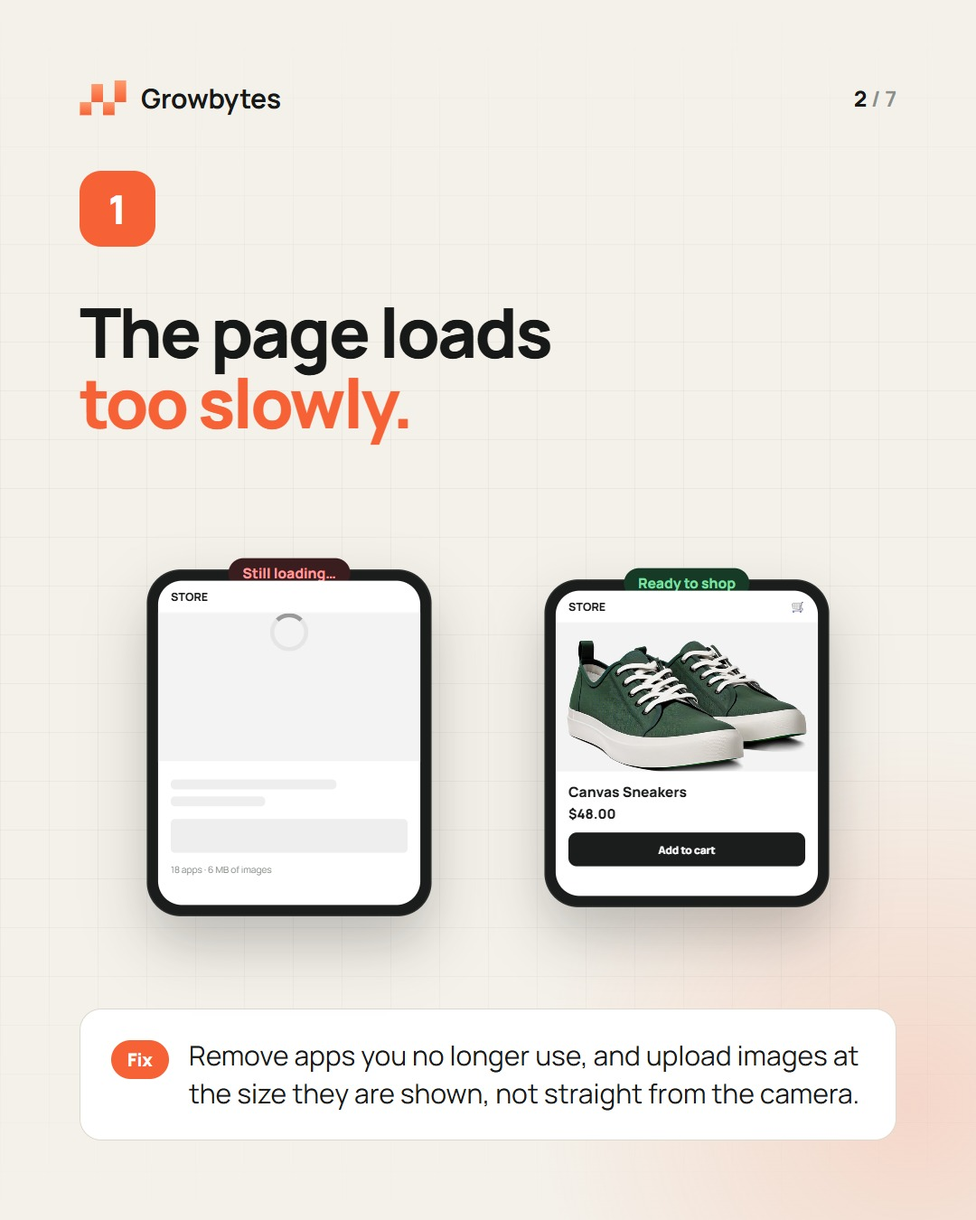
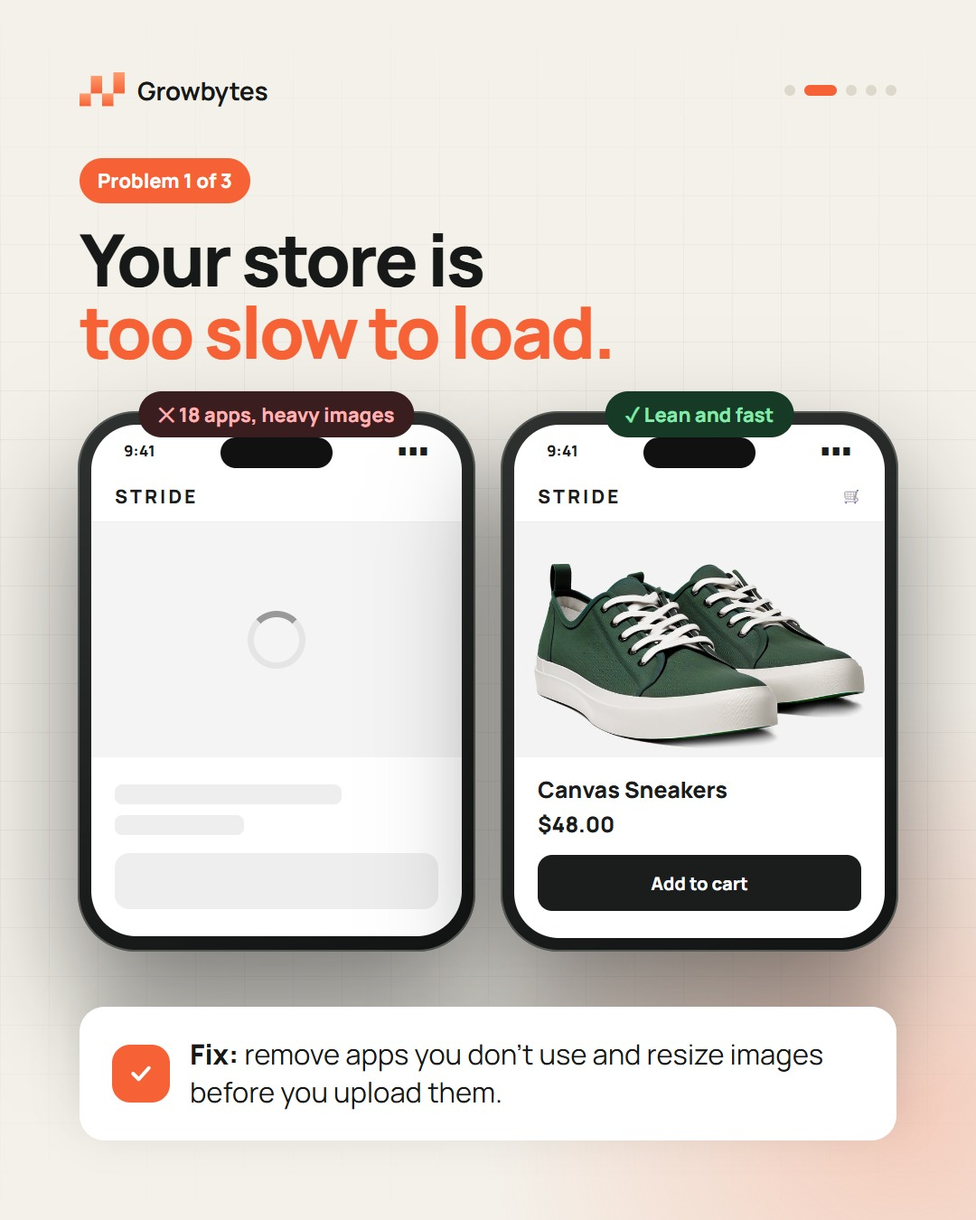
Social: 5-slide Shopify carousel with real product photos and mixed backgrounds

diff --git a/brand/social/src/shopify-no-sales.html b/brand/social/src/shopify-no-sales.html
@@ -4,199 +4,189 @@
 <meta charset="utf-8">
 <link href="https://fonts.googleapis.com/css2?family=Manrope:wght@400;500;600;700;800&display=swap" rel="stylesheet">
 <style>
-  :root { --night:#0d0f0e; --ink:#f4f1ea; --muted:#a3a8a4; --dim:#6c726e; --line:#262a28; --orange:#f66135; --peach:#ffb38f; --green:#2fb463; --red:#e5484d; }
+  :root { --orange:#f66135; --peach:#ffb38f; --red:#e5484d; --green:#17803d; }
   * { box-sizing:border-box; margin:0; padding:0; }
   body { font-family:Manrope, sans-serif; background:#000; }
   ::-webkit-scrollbar { display:none; }
-  .phone { height:auto !important; }
-  .scr { height:auto !important; padding-bottom:26px; }
-  .slide { width:1080px; height:1350px; background:var(--night); color:var(--ink); overflow:hidden; position:relative; margin-bottom:20px; }
-  .glow { position:absolute; width:900px; height:900px; right:-380px; bottom:-320px; border-radius:50%; background:radial-gradient(circle, rgba(246,97,53,.22), rgba(246,97,53,0) 65%); }
-  .grid { position:absolute; inset:0; background-image:linear-gradient(rgba(255,255,255,.03) 1px, transparent 1px), linear-gradient(90deg, rgba(255,255,255,.03) 1px, transparent 1px); background-size:54px 54px; mask-image:linear-gradient(180deg, transparent, #000 30%, #000 70%, transparent); }
-  .wrap { position:absolute; inset:0; padding:88px; display:flex; flex-direction:column; }
-  .top { display:flex; justify-content:space-between; align-items:center; }
-  .brand { display:flex; align-items:center; gap:16px; font-weight:700; font-size:30px; letter-spacing:-.3px; }
-  .count { font-size:24px; font-weight:700; color:var(--dim); }
-  .count b { color:var(--ink); }
-  h1 { font-size:112px; line-height:.98; font-weight:800; letter-spacing:-4.5px; margin-top:70px; }
-  h1 span, h2 span { color:var(--orange); }
-  h2 { font-size:76px; line-height:1.02; font-weight:800; letter-spacing:-2.8px; margin-top:56px; }
-  .num { margin-top:60px; width:84px; height:84px; border-radius:24px; background:var(--orange); color:#fff; display:grid; place-items:center; font-size:44px; font-weight:800; }
-  .lead { margin-top:26px; font-size:34px; line-height:1.4; color:var(--muted); max-width:860px; }
-  .fix { margin-top:auto; display:flex; gap:22px; align-items:flex-start; background:rgba(255,255,255,.04); border:1px solid var(--line); border-radius:24px; padding:30px 34px; }
-  .fix .k { flex-shrink:0; font-size:20px; font-weight:800; color:var(--night); background:var(--peach); border-radius:99px; padding:8px 18px; margin-top:4px; }
-  .fix p { font-size:30px; line-height:1.4; }
-  .swipe { margin-top:auto; display:flex; align-items:center; gap:16px; font-size:28px; font-weight:700; color:var(--peach); }
-  .visual { margin-top:44px; flex:1; display:flex; align-items:center; justify-content:center; min-height:0; }
 
-  /* Phone mockup */
-  .phone { width:400px; height:560px; border-radius:46px; background:#1b1d1c; padding:14px; box-shadow:0 40px 90px rgba(0,0,0,.6), 0 0 0 2px #2c302e; position:relative; }
-  .scr { width:100%; height:100%; border-radius:34px; background:#fff; overflow:hidden; color:#1b1d1c; position:relative; font-size:15px; }
-  .bar { height:46px; display:flex; align-items:center; justify-content:space-between; padding:0 18px; font-weight:800; font-size:16px; border-bottom:1px solid #eee; }
-  .pimg { height:210px; background:#f5f5f5; overflow:hidden; display:grid; place-items:center; }
-  .pimg { display:block !important; }
-  .pimg img { display:block; width:100%; height:100%; object-fit:cover; object-position:center 55%; transform:scale(1.25); }
-  .slide.light .fix .k { background:var(--orange); color:#fff; }
-  /* Slide themes: dark (default), light and brand orange */
-  .slide.light { --night:#f4f1ea; --ink:#171918; --muted:#4f5652; --dim:#8a8f8b; --line:#ddd8cc; }
-  .slide.light .grid { background-image:linear-gradient(rgba(0,0,0,.04) 1px, transparent 1px), linear-gradient(90deg, rgba(0,0,0,.04) 1px, transparent 1px); }
-  .slide.light .glow { background:radial-gradient(circle, rgba(246,97,53,.18), rgba(246,97,53,0) 65%); }
-  .slide.light .fix { background:#fff; }
-  .slide.light .phone { box-shadow:0 40px 80px rgba(23,25,24,.25), 0 0 0 2px #2c302e; }
-  .slide.orange { --night:#f66135; --ink:#fff; --muted:rgba(255,255,255,.85); --dim:rgba(255,255,255,.7); --line:rgba(255,255,255,.28); }
-  .slide.orange h1 span, .slide.orange h2 span { color:#171918; }
-  .slide.orange .num { background:#171918; }
-  .slide.orange .glow { background:radial-gradient(circle, rgba(255,214,190,.45), rgba(255,214,190,0) 65%); }
-  .slide.orange .fix { background:rgba(23,25,24,.14); }
-  .slide.orange .fix .k { background:#171918; color:#fff; }
-  .slide.orange .count b { color:#fff; }
-  .slide.orange .brand svg rect { fill:#fff; }
-  .pad { padding:16px 18px; }
-  .t { font-weight:800; font-size:20px; }
-  .pr { font-weight:800; font-size:19px; margin-top:4px; }
-  .muted { color:#8a8f8b; font-size:13px; }
-  .btn { margin-top:14px; height:48px; border-radius:12px; background:#1b1d1c; color:#fff; display:grid; place-items:center; font-weight:800; }
-  .side { display:flex; gap:40px; align-items:center; }
-  .tag { position:absolute; top:-18px; left:50%; transform:translateX(-50%); font-size:20px; font-weight:800; padding:8px 20px; border-radius:99px; white-space:nowrap; }
-  .tag.bad { background:#3a1d1e; color:#ff9a9d; }
-  .tag.good { background:#173a26; color:#7fe0a5; }
-  .skel { background:#eee; border-radius:6px; height:14px; margin-top:10px; }
-  .spin { width:54px; height:54px; border-radius:50%; border:6px solid #e5e5e5; border-top-color:#999; }
-  .row { display:flex; justify-content:space-between; padding:9px 0; border-bottom:1px solid #f0f0f0; font-size:16px; }
+  /* Slide themes */
+  .slide { --bg:#0d0f0e; --ink:#f4f1ea; --muted:#a3a8a4; --dim:#6c726e; --line:#2a2e2c; --hl:var(--orange); --card:rgba(23,25,24,.94);
+    width:1080px; height:1350px; background:var(--bg); color:var(--ink); overflow:hidden; position:relative; margin-bottom:20px; }
+  .slide.light { --bg:#f4f1ea; --ink:#171918; --muted:#4f5652; --dim:#8a8f8b; --line:#ddd8cc; --card:#fff; }
+  .slide.orange { --bg:#f66135; --ink:#fff; --muted:rgba(255,255,255,.88); --dim:rgba(255,255,255,.75); --line:rgba(255,255,255,.3); --hl:#171918; --card:rgba(33,18,11,.92); }
+  .glow { position:absolute; width:1000px; height:1000px; right:-420px; bottom:-380px; border-radius:50%; background:radial-gradient(circle, rgba(246,97,53,.25), rgba(246,97,53,0) 65%); }
+  .orange .glow { background:radial-gradient(circle, rgba(255,220,200,.5), rgba(255,220,200,0) 65%); }
+  .grid { position:absolute; inset:0; background-image:linear-gradient(rgba(255,255,255,.035) 1px, transparent 1px), linear-gradient(90deg, rgba(255,255,255,.035) 1px, transparent 1px); background-size:54px 54px; mask-image:linear-gradient(180deg, transparent, #000 30%, #000 70%, transparent); }
+  .light .grid { background-image:linear-gradient(rgba(0,0,0,.045) 1px, transparent 1px), linear-gradient(90deg, rgba(0,0,0,.045) 1px, transparent 1px); }
+  .wrap { position:absolute; inset:0; padding:80px 88px 88px; display:flex; flex-direction:column; }
+
+  .top { display:flex; justify-content:space-between; align-items:center; position:relative; z-index:3; }
+  .brand { display:flex; align-items:center; gap:14px; font-weight:700; font-size:28px; letter-spacing:-.3px; }
+  .orange .brand rect { fill:#fff; }
+  .dots { display:flex; gap:10px; }
+  .dots i { width:12px; height:12px; border-radius:99px; background:var(--line); }
+  .dots i.on { width:36px; background:var(--hl); }
+
+  h1 { font-size:118px; line-height:.96; font-weight:800; letter-spacing:-5px; margin-top:64px; position:relative; z-index:3; }
+  h2 { font-size:80px; line-height:1.0; font-weight:800; letter-spacing:-3px; margin-top:22px; position:relative; z-index:3; }
+  h1 span, h2 span { color:var(--hl); }
+  .pill { margin-top:56px; align-self:flex-start; font-size:22px; font-weight:800; padding:10px 20px; border-radius:99px; background:var(--hl); color:#fff; position:relative; z-index:3; }
+  .lead { margin-top:26px; font-size:34px; line-height:1.4; color:var(--muted); max-width:860px; position:relative; z-index:3; }
+
+  .visual { flex:1; display:flex; justify-content:center; align-items:flex-start; margin-top:48px; margin-bottom:-190px; position:relative; z-index:1; }
+  .fix { position:relative; z-index:3; display:flex; gap:22px; align-items:center; background:var(--card); border-radius:28px; padding:32px 36px; box-shadow:0 -20px 60px rgba(0,0,0,.28); }
+  .light .fix { box-shadow:0 -14px 50px rgba(23,25,24,.14); }
+  .fix .k { flex-shrink:0; width:64px; height:64px; border-radius:20px; background:var(--orange); display:grid; place-items:center; }
+  .fix p { font-size:31px; line-height:1.35; color:var(--ink); }
+  .orange .fix p { color:#fff; }
+  .fix b { font-weight:800; }
+
+  /* Phone */
+  .phone { width:500px; border-radius:64px; padding:15px; background:linear-gradient(160deg,#41464380,#121413), #1b1d1c; box-shadow:0 60px 120px rgba(0,0,0,.5), inset 0 0 0 2px #555a57; flex-shrink:0; }
+  .scr { border-radius:50px; background:#fff; overflow:hidden; color:#1b1d1c; position:relative; font-size:18px; padding-bottom:30px; }
+  .status { height:50px; display:flex; justify-content:space-between; align-items:center; padding:6px 36px 0; font-weight:800; font-size:17px; }
+  .status:after { content:"▮▮▮"; letter-spacing:1px; font-size:11px; }
+  .island { position:absolute; top:14px; left:50%; transform:translateX(-50%); width:124px; height:34px; border-radius:20px; background:#111; }
+  .bar { height:58px; display:flex; align-items:center; justify-content:space-between; padding:0 26px; font-weight:800; font-size:21px; letter-spacing:3px; border-bottom:1px solid #eee; }
+  .bar small { font-size:16px; letter-spacing:0; font-weight:700; }
+  .pimg { height:300px; background:#f4f4f4; overflow:hidden; }
+  .pimg img { display:block; width:100%; height:100%; object-fit:cover; object-position:center 55%; transform:scale(1.22); }
+  .thumbs { display:flex; gap:10px; padding:14px 26px 0; }
+  .thumbs img { width:64px; height:64px; object-fit:cover; border-radius:12px; border:2px solid #eee; }
+  .thumbs img:first-child { border-color:#1b1d1c; }
+  .pad { padding:18px 26px 0; }
+  .t { font-weight:800; font-size:25px; }
+  .pr { font-weight:800; font-size:24px; margin-top:4px; }
+  .muted { color:#8a8f8b; font-size:16px; }
+  .btn { margin-top:18px; height:62px; border-radius:16px; background:#1b1d1c; color:#fff; display:grid; place-items:center; font-weight:800; font-size:20px; }
+  .row { display:flex; justify-content:space-between; padding:12px 0; border-bottom:1px solid #f0f0f0; font-size:18px; }
   .row b { font-weight:800; }
-  .shock { color:var(--red); font-weight:800; }
-  .ok { color:#17803d; font-weight:800; }
-  .badge { display:inline-flex; gap:6px; align-items:center; background:#f3f1ec; border-radius:8px; padding:7px 10px; font-size:13px; font-weight:700; margin:6px 6px 0 0; }
-  .stars { color:#f5a623; font-size:16px; letter-spacing:1px; }
-  .cta { display:inline-flex; align-items:center; gap:14px; font-size:32px; font-weight:800; color:#fff; background:var(--orange); padding:26px 46px; border-radius:999px; box-shadow:0 18px 40px rgba(246,97,53,.35); }
-  .check { list-style:none; margin-top:56px; display:grid; gap:20px; }
-  .check li { display:flex; gap:20px; align-items:center; font-size:34px; font-weight:700; }
-  .check li i { width:46px; height:46px; border-radius:14px; background:var(--orange); display:grid; place-items:center; flex-shrink:0; font-style:normal; }
+  .badge { display:inline-flex; gap:6px; align-items:center; background:#f3f1ec; border-radius:10px; padding:8px 12px; font-size:15px; font-weight:700; margin:8px 6px 0 0; }
+  .stars { color:#f5a623; font-size:18px; letter-spacing:1px; }
+  .skel { background:#eee; border-radius:8px; height:16px; margin-top:12px; }
+  .spin { width:64px; height:64px; border-radius:50%; border:7px solid #e5e5e5; border-top-color:#999; }
+  .tag { position:absolute; top:-22px; left:50%; transform:translateX(-50%); font-size:22px; font-weight:800; padding:10px 22px; border-radius:99px; white-space:nowrap; z-index:2; }
+  .tag.bad { background:#3a1d1e; color:#ffb1b3; }
+  .tag.good { background:#173a26; color:#86e8ac; }
+  .pair { display:flex; gap:28px; }
+  .pair .phone { width:440px; position:relative; }
+  .pair .pimg { height:260px; }
+  .ship { margin-top:14px; display:flex; align-items:center; gap:10px; background:#eefaf2; color:var(--green); border-radius:12px; padding:12px 14px; font-weight:800; font-size:16px; }
+
+  .cta { display:inline-flex; align-items:center; gap:14px; font-size:34px; font-weight:800; color:#fff; background:var(--orange); padding:28px 50px; border-radius:999px; box-shadow:0 20px 44px rgba(246,97,53,.4); }
+  .check { list-style:none; margin-top:60px; display:grid; gap:26px; }
+  .check li { display:flex; gap:22px; align-items:center; font-size:38px; font-weight:700; }
+  .check li i { width:56px; height:56px; border-radius:16px; background:var(--orange); display:grid; place-items:center; flex-shrink:0; }
+  .s3 .visual { margin-bottom:-120px; }
+  .check.card { background:#fff; border-radius:32px; padding:44px 44px; box-shadow:0 30px 70px rgba(23,25,24,.1); margin-top:64px; gap:30px; }
+  .check.card li { font-size:36px; }
+  .check.card li span { display:block; font-size:24px; font-weight:500; color:#6c726e; margin-top:4px; }
 </style>
 </head>
 <body>
 
-<!-- Logo reused on every slide -->
-<template id="logo"><svg width="52" height="40" viewBox="0 0 16 12.5"><defs><linearGradient id="g" x1="0" x2="0" y1="0" y2="1"><stop offset="0" stop-color="#FF9C6E"/><stop offset="1" stop-color="#F66135"/></linearGradient></defs><rect x="0" y="7.5" width="4" height="4.5" fill="url(#g)"/><rect x="4" y="1.25" width="4" height="6.25" fill="url(#g)"/><rect x="8" y="7.5" width="4" height="4.5" fill="url(#g)"/><rect x="12" y="0" width="4" height="7.5" fill="url(#g)"/></svg>Growbytes</template>
+<template id="logo"><svg width="50" height="39" viewBox="0 0 16 12.5"><defs><linearGradient id="g" x1="0" x2="0" y1="0" y2="1"><stop offset="0" stop-color="#FF9C6E"/><stop offset="1" stop-color="#F66135"/></linearGradient></defs><rect x="0" y="7.5" width="4" height="4.5" fill="url(#g)"/><rect x="4" y="1.25" width="4" height="6.25" fill="url(#g)"/><rect x="8" y="7.5" width="4" height="4.5" fill="url(#g)"/><rect x="12" y="0" width="4" height="7.5" fill="url(#g)"/></svg>Growbytes</template>
+<template id="tick"><svg width="30" height="30" viewBox="0 0 24 24" fill="none" stroke="#fff" stroke-width="3.2" stroke-linecap="round" stroke-linejoin="round"><path d="M5 12l5 5 9-10"/></svg></template>
 
-<!-- 1. Cover -->
-<section class="slide"><div class="glow"></div><div class="grid"></div><div class="wrap">
-  <div class="top"><div class="brand"></div><div class="count"><b>1</b> / 7</div></div>
-  <h1>People visit<br>your store.<br><span>Nobody buys.</span></h1>
-  <p class="lead">5 quiet problems that stop Shopify visitors from buying, and how to fix each one.</p>
-  <div class="visual" style="margin-top:30px">
-    <div class="phone" style="transform:rotate(-4deg) scale(.86)"><div class="scr">
-      <div class="bar">STORE <span>🛒 0</span></div>
-      <div class="pimg"><img src="img/sneakers.jpg" alt=""></div>
-      <div class="pad"><div class="t">Canvas Sneakers</div><div class="pr">$48.00</div><div class="btn" style="background:#ccc">Add to cart</div>
-      <p class="muted" style="margin-top:12px;text-align:center">1,204 visits today · 0 orders</p></div>
+<!-- 1. Hook -->
+<section class="slide" data-n="1"><div class="glow"></div><div class="grid"></div><div class="wrap">
+  <div class="top"><div class="brand"></div><div class="dots"></div></div>
+  <h1>Visitors come.<br><span>Sales don&rsquo;t.</span></h1>
+  <p class="lead">3 problems that stop people buying from your Shopify store, and how to fix each one.</p>
+  <div class="visual" style="margin-bottom:-200px">
+    <div class="phone" style="transform:rotate(-5deg)"><div class="scr"><div class="island"></div><div class="status">9:41</div>
+      <div class="bar">STRIDE <small>🛒 0</small></div>
+      <div class="pad" style="padding-top:16px;padding-bottom:16px;background:#fafafa"><div style="display:flex;gap:10px">
+          <div style="flex:1;background:#f4f4f4;border-radius:14px;padding:14px 16px"><div class="muted">Visits today</div><div style="font-size:30px;font-weight:800">1,204</div></div>
+          <div style="flex:1;background:#fff1ee;border-radius:14px;padding:14px 16px"><div class="muted">Orders</div><div style="font-size:30px;font-weight:800;color:var(--red)">0</div></div>
+        </div></div>
+      <div class="pimg" style="height:250px"><img src="img/sneakers.jpg" alt=""></div>
+      <div class="pad"><div class="t">Canvas Sneakers</div><div class="pr">$48.00</div></div>
     </div></div>
   </div>
-  <div class="swipe">Swipe to fix it <svg width="30" height="30" viewBox="0 0 24 24" fill="none" stroke="currentColor" stroke-width="2.6" stroke-linecap="round" stroke-linejoin="round"><path d="M5 12h14M13 6l6 6-6 6"/></svg></div>
+  <div class="fix" style="justify-content:space-between"><p><b>Swipe</b> to see what&rsquo;s going wrong</p>
+    <span class="k"><svg width="32" height="32" viewBox="0 0 24 24" fill="none" stroke="#fff" stroke-width="2.8" stroke-linecap="round" stroke-linejoin="round"><path d="M5 12h14M13 6l6 6-6 6"/></svg></span></div>
 </div></section>
 
-<!-- 2. Slow -->
-<section class="slide light"><div class="glow"></div><div class="grid"></div><div class="wrap">
-  <div class="top"><div class="brand"></div><div class="count"><b>2</b> / 7</div></div>
-  <div class="num">1</div>
-  <h2>The page loads<br><span>too slowly.</span></h2>
-  <div class="visual"><div class="side">
-    <div class="phone" style="transform:scale(.78)"><span class="tag bad">Still loading…</span><div class="scr">
-      <div class="bar">STORE</div><div class="pimg" style="background:#f3f3f3"><div class="spin"></div></div>
-      <div class="pad"><div class="skel" style="width:70%"></div><div class="skel" style="width:40%"></div><div class="skel" style="height:48px;margin-top:18px"></div>
-      <p class="muted" style="margin-top:14px">18 apps · 6 MB of images</p></div></div></div>
-    <div class="phone" style="transform:scale(.78)"><span class="tag good">Ready to shop</span><div class="scr">
-      <div class="bar">STORE <span>🛒</span></div><div class="pimg"><img src="img/sneakers.jpg" alt=""></div>
+<!-- 2. Speed -->
+<section class="slide light" data-n="2"><div class="glow"></div><div class="grid"></div><div class="wrap">
+  <div class="top"><div class="brand"></div><div class="dots"></div></div>
+  <span class="pill">Problem 1 of 3</span>
+  <h2>Your store is<br><span>too slow to load.</span></h2>
+  <div class="visual"><div class="pair">
+    <div class="phone"><span class="tag bad">✕ 18 apps, heavy images</span><div class="scr"><div class="island"></div><div class="status">9:41</div>
+      <div class="bar">STRIDE</div><div class="pimg" style="display:grid;place-items:center"><div class="spin"></div></div>
+      <div class="pad"><div class="skel" style="width:70%;height:22px"></div><div class="skel" style="width:40%;height:22px"></div><div class="skel" style="height:62px;margin-top:20px;border-radius:16px"></div></div></div></div>
+    <div class="phone"><span class="tag good">✓ Lean and fast</span><div class="scr"><div class="island"></div><div class="status">9:41</div>
+      <div class="bar">STRIDE <small>🛒</small></div><div class="pimg"><img src="img/sneakers.jpg" alt=""></div>
       <div class="pad"><div class="t">Canvas Sneakers</div><div class="pr">$48.00</div><div class="btn">Add to cart</div></div></div></div>
   </div></div>
-  <div class="fix"><span class="k">Fix</span><p>Remove apps you no longer use, and upload images at the size they are shown, not straight from the camera.</p></div>
+  <div class="fix"><span class="k"></span><p><b>Fix:</b> remove apps you don&rsquo;t use and resize images before you upload them.</p></div>
 </div></section>
 
-<!-- 3. Product page -->
-<section class="slide orange"><div class="glow"></div><div class="grid"></div><div class="wrap">
-  <div class="top"><div class="brand"></div><div class="count"><b>3</b> / 7</div></div>
-  <div class="num">2</div>
-  <h2>The product page<br><span>leaves questions open.</span></h2>
-  <div class="visual"><div class="phone" style="transform:scale(.9)"><div class="scr">
-    <div class="bar">STORE <span>🛒</span></div>
-    <div class="pimg" style="height:170px"><img src="img/sneakers.jpg" alt=""></div>
-    <div class="pad"><div class="t">Canvas Sneakers</div><div class="pr">$48.00</div>
-      <div class="row"><span>Size</span><b>EU 36–46</b></div>
-      <div class="row"><span>Material</span><b>Organic canvas</b></div>
-      <div class="row"><span>Delivery</span><b class="ok">3–5 days</b></div>
-      <div class="btn">Add to cart</div></div></div></div></div>
-  <div class="fix"><span class="k">Fix</span><p>Show clear photos, size, material and delivery time right next to the price. Answer the questions people would ask in a shop.</p></div>
+<!-- 3. Product page + trust -->
+<section class="slide orange s3" data-n="3"><div class="glow"></div><div class="grid"></div><div class="wrap">
+  <div class="top"><div class="brand"></div><div class="dots"></div></div>
+  <span class="pill">Problem 2 of 3</span>
+  <h2 style="font-size:74px">Shoppers ask questions.<br><span>Your page is silent.</span></h2>
+  <div class="visual"><div class="phone"><div class="scr"><div class="island"></div><div class="status">9:41</div>
+    <div class="bar">STRIDE <small>🛒</small></div>
+    <div class="pimg" style="height:190px"><img src="img/sneakers.jpg" alt=""></div>
+    <div class="thumbs"><img src="img/sneakers.jpg"><img src="img/white-sneakers.jpg"><img src="img/sneakers.jpg" style="object-position:20% 60%"></div>
+    <div class="pad"><div style="display:flex;justify-content:space-between;align-items:baseline"><div class="t">Canvas Sneakers</div><div class="pr">$48.00</div></div>
+      <div style="display:flex;gap:8px;align-items:center;margin-top:6px"><span class="stars">★★★★★</span><span class="muted">Read reviews</span></div>
+      <div class="row"><span>Sizes</span><b>EU 36–46</b></div>
+      <div class="row"><span>Delivery</span><b style="color:var(--green)">3–5 days</b></div>
+      <div><span class="badge">↩ Free returns</span><span class="badge">🔒 Secure checkout</span></div>
+    </div></div></div></div>
+  <div class="fix"><span class="k"></span><p><b>Fix:</b> put sizes, delivery time, reviews and your returns policy right next to the price.</p></div>
 </div></section>
 
-<!-- 4. Surprise shipping -->
-<section class="slide"><div class="glow"></div><div class="grid"></div><div class="wrap">
-  <div class="top"><div class="brand"></div><div class="count"><b>4</b> / 7</div></div>
-  <div class="num">3</div>
-  <h2>Shipping costs appear<br><span>at the last step.</span></h2>
-  <div class="visual"><div class="phone" style="transform:scale(.9)"><div class="scr">
-    <div class="bar">Checkout</div>
+<!-- 4. Checkout -->
+<section class="slide" data-n="4"><div class="glow"></div><div class="grid"></div><div class="wrap">
+  <div class="top"><div class="brand"></div><div class="dots"></div></div>
+  <span class="pill">Problem 3 of 3</span>
+  <h2>Checkout is full of<br><span>surprises and steps.</span></h2>
+  <div class="visual"><div class="phone" style="position:relative"><span class="tag good">✓ What good looks like</span><div class="scr"><div class="island"></div><div class="status">9:41</div>
+    <div class="bar">Checkout <small style="color:#8a8f8b">Step 1 of 1</small></div>
     <div class="pad">
-      <div class="row"><span>Canvas Sneakers</span><b>$48.00</b></div>
-      <div class="row"><span>Shipping</span><b class="shock">+ $14.90</b></div>
-      <div class="row"><span>Taxes</span><b class="shock">+ $5.20</b></div>
-      <div class="row" style="border:0;font-size:19px"><span><b>Total</b></span><b>$68.10</b></div>
-      <div style="margin-top:18px;background:#fff4f4;border:1px solid #ffd4d4;border-radius:12px;padding:14px;font-size:15px;color:#b42318;font-weight:700">"Wait, why is it $20 more?" 🤔</div>
-      <div class="btn" style="background:#ccc">Pay now</div></div></div></div></div>
-  <div class="fix"><span class="k">Fix</span><p>Show shipping on the product page and in the cart, or offer a free shipping threshold. No surprises at checkout.</p></div>
+      <div style="display:flex;gap:14px;align-items:center;padding-bottom:12px;border-bottom:1px solid #f0f0f0">
+        <img src="img/sneakers.jpg" style="width:76px;height:76px;object-fit:cover;border-radius:14px;background:#f4f4f4">
+        <div style="flex:1"><div style="font-weight:800">Canvas Sneakers</div><div class="muted">EU 42</div></div><b>$48.00</b></div>
+      <div class="row"><span>Shipping</span><b style="color:var(--green)">Free</b></div>
+      <div class="row" style="border:0;font-size:22px"><b>Total</b><b>$48.00</b></div>
+      <div class="ship">✓ Same price you saw on the product page</div>
+      <div class="btn" style="background:#000;margin-top:18px">Express checkout</div>
+      <div class="btn" style="background:#5a31f4;margin-top:10px">Shop Pay</div>
+      <p class="muted" style="text-align:center;margin-top:14px">or pay as a guest, no account needed</p>
+    </div></div></div></div>
+  <div class="fix"><span class="k"></span><p><b>Fix:</b> show shipping costs early, turn on express pay and allow guest checkout.</p></div>
 </div></section>
 
-<!-- 5. Trust -->
-<section class="slide light"><div class="glow"></div><div class="grid"></div><div class="wrap">
-  <div class="top"><div class="brand"></div><div class="count"><b>5</b> / 7</div></div>
-  <div class="num">4</div>
-  <h2>Visitors don't know<br><span>if they can trust you.</span></h2>
-  <div class="visual"><div class="phone" style="transform:scale(.9)"><div class="scr">
-    <div class="bar">STORE <span>🛒</span></div>
-    <div class="pimg" style="height:150px"><img src="img/sneakers.jpg" alt=""></div>
-    <div class="pad"><div class="t">Canvas Sneakers</div>
-      <div style="display:flex;gap:8px;align-items:center;margin-top:4px"><span class="stars">★★★★★</span><span class="muted">Customer reviews</span></div>
-      <div><span class="badge">↩ Easy 30-day returns</span><span class="badge">🔒 Secure checkout</span><span class="badge">✉ Real contact details</span></div>
-      <div class="btn">Add to cart</div></div></div></div></div>
-  <div class="fix"><span class="k">Fix</span><p>Put reviews, your returns policy and a real way to contact you where buyers can see them, not hidden in the footer.</p></div>
-</div></section>
-
-<!-- 6. Mobile / steps -->
-<section class="slide orange"><div class="glow"></div><div class="grid"></div><div class="wrap">
-  <div class="top"><div class="brand"></div><div class="count"><b>6</b> / 7</div></div>
-  <div class="num">5</div>
-  <h2>Buying on a phone<br><span>takes too many steps.</span></h2>
-  <div class="visual"><div class="phone" style="transform:scale(.9)"><div class="scr">
-    <div class="bar">Checkout</div>
-    <div class="pad">
-      <div style="height:48px;border-radius:12px;background:#000;color:#fff;display:grid;place-items:center;font-weight:800">Express checkout</div>
-      <div style="height:48px;border-radius:12px;background:#5a31f4;color:#fff;display:grid;place-items:center;font-weight:800;margin-top:10px">Shop Pay</div>
-      <p class="muted" style="text-align:center;margin:14px 0">or continue as guest</p>
-      <div class="skel" style="height:40px;margin-top:0"></div><div class="skel" style="height:40px"></div>
-      <div class="btn" style="background:var(--orange)">Pay now</div>
-      <p class="muted" style="text-align:center;margin-top:10px">No account needed</p></div></div></div></div>
-  <div class="fix"><span class="k">Fix</span><p>Turn on express payments, allow guest checkout, and test your full checkout on a phone yourself.</p></div>
-</div></section>
-
-<!-- 7. CTA -->
-<section class="slide"><div class="glow"></div><div class="grid"></div><div class="wrap">
-  <div class="top"><div class="brand"></div><div class="count"><b>7</b> / 7</div></div>
-  <h1 style="font-size:96px">Fix these,<br>and the visitors<br>you already have<br><span>start buying.</span></h1>
-  <ul class="check">
-    <li><i><svg width="24" height="24" viewBox="0 0 24 24" fill="none" stroke="#fff" stroke-width="3.2" stroke-linecap="round" stroke-linejoin="round"><path d="M5 12l5 5 9-10"/></svg></i>Faster pages</li>
-    <li><i><svg width="24" height="24" viewBox="0 0 24 24" fill="none" stroke="#fff" stroke-width="3.2" stroke-linecap="round" stroke-linejoin="round"><path d="M5 12l5 5 9-10"/></svg></i>Clear product pages</li>
-    <li><i><svg width="24" height="24" viewBox="0 0 24 24" fill="none" stroke="#fff" stroke-width="3.2" stroke-linecap="round" stroke-linejoin="round"><path d="M5 12l5 5 9-10"/></svg></i>No checkout surprises</li>
-    <li><i><svg width="24" height="24" viewBox="0 0 24 24" fill="none" stroke="#fff" stroke-width="3.2" stroke-linecap="round" stroke-linejoin="round"><path d="M5 12l5 5 9-10"/></svg></i>Trust you can see</li>
-    <li><i><svg width="24" height="24" viewBox="0 0 24 24" fill="none" stroke="#fff" stroke-width="3.2" stroke-linecap="round" stroke-linejoin="round"><path d="M5 12l5 5 9-10"/></svg></i>A quick phone checkout</li>
+<!-- 5. CTA -->
+<section class="slide light" data-n="5"><div class="glow"></div><div class="grid"></div><div class="wrap">
+  <div class="top"><div class="brand"></div><div class="dots"></div></div>
+  <h1 style="font-size:100px">Fix these 3,<br>and your visitors<br><span>start buying.</span></h1>
+  <ul class="check card">
+    <li><i></i><div>A fast store<span>Fewer apps, lighter images</span></div></li>
+    <li><i></i><div>Product pages that answer questions<span>Sizes, delivery, reviews, returns</span></div></li>
+    <li><i></i><div>A checkout with no surprises<span>Clear shipping, express pay, guest checkout</span></div></li>
   </ul>
   <div style="margin-top:auto;text-align:center">
-    <p style="font-size:30px;color:var(--muted);margin-bottom:26px">Want a second pair of eyes on your store?</p>
-    <div class="cta">Let&rsquo;s fix yours <svg width="30" height="30" viewBox="0 0 24 24" fill="none" stroke="#fff" stroke-width="2.6" stroke-linecap="round" stroke-linejoin="round"><path d="M5 12h14M13 6l6 6-6 6"/></svg> growbytes.co</div>
+    <p style="font-size:32px;color:var(--muted);margin-bottom:28px">Want us to check your store?</p>
+    <div class="cta">Let&rsquo;s fix yours <svg width="32" height="32" viewBox="0 0 24 24" fill="none" stroke="#fff" stroke-width="2.6" stroke-linecap="round" stroke-linejoin="round"><path d="M5 12h14M13 6l6 6-6 6"/></svg> growbytes.co</div>
   </div>
 </div></section>
 
 <script>
   const logo = document.getElementById("logo").innerHTML;
+  const tick = document.getElementById("tick").innerHTML;
   document.querySelectorAll(".brand").forEach((b) => (b.innerHTML = logo));
+  document.querySelectorAll(".fix .k:empty, .check i").forEach((k) => (k.innerHTML = tick));
+  document.querySelectorAll(".slide").forEach((s) => {
+    const n = +s.dataset.n;
+    s.querySelector(".dots").innerHTML = [1, 2, 3, 4, 5].map((i) => `<i class="${i === n ? "on" : ""}"></i>`).join("");
+  });
 </script>
 </body>
 </html>
